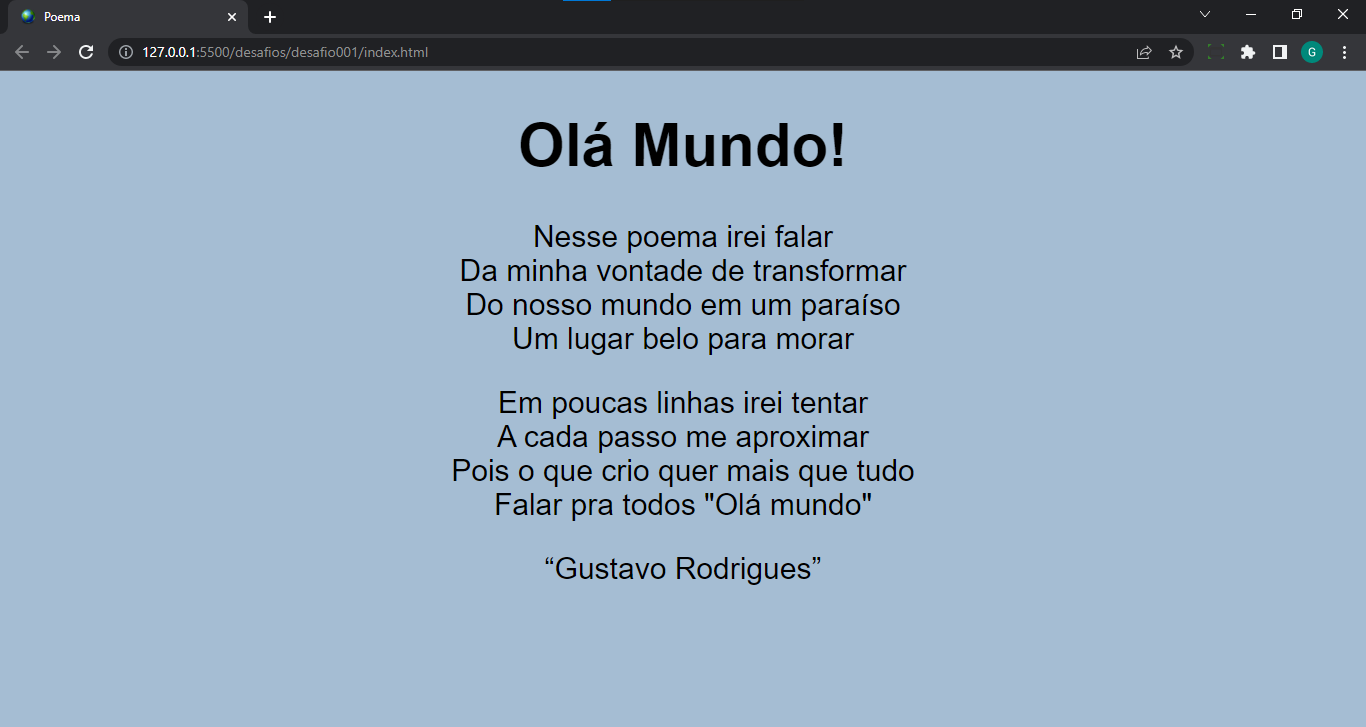
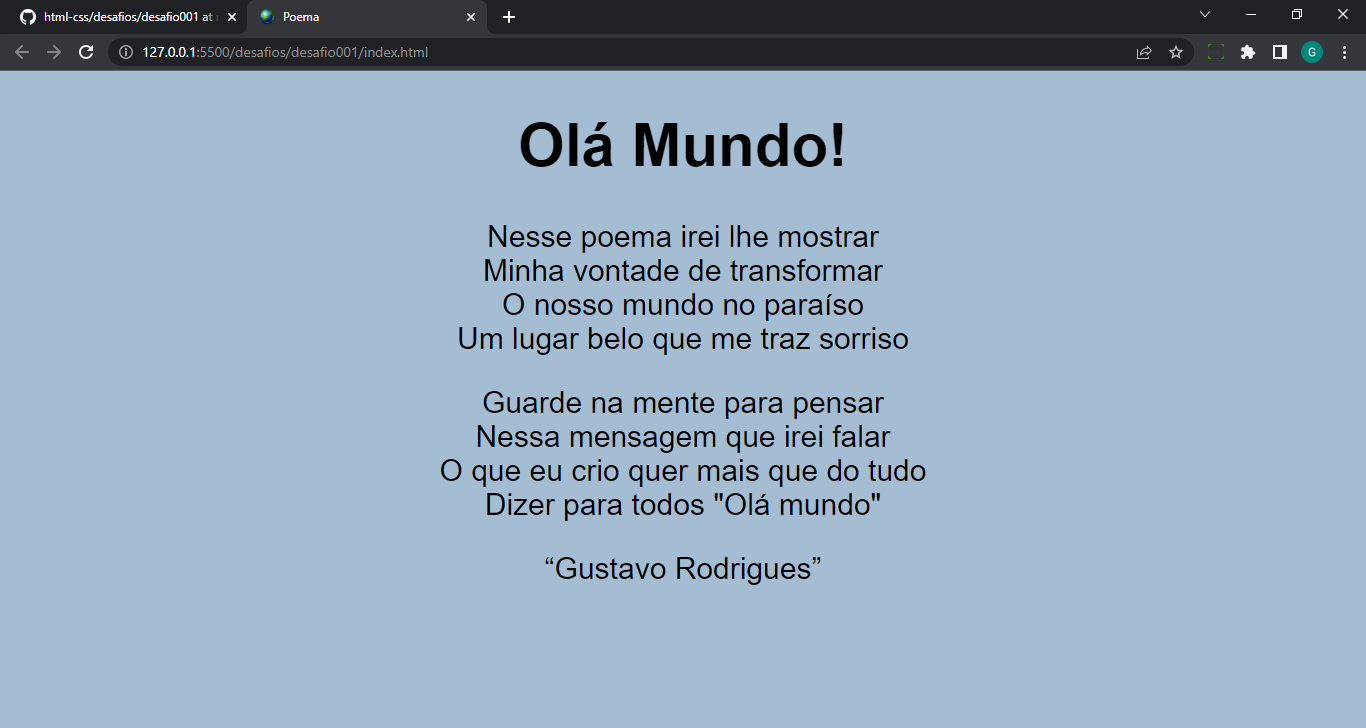
mudei o poema

diff --git a/desafios/desafio001/index.html b/desafios/desafio001/index.html
@@ -27,17 +27,17 @@
     <h1>Olá Mundo!</h1>
 
         <p>
-            Nesse poema irei falar <br>
-            Da minha vontade de transformar <br>
-            Do nosso mundo em um paraíso <br>
-            Um lugar belo para morar <br>
+            Nesse poema irei lhe mostrar <br>
+            Minha vontade de transformar <br>
+            O nosso mundo no paraíso <br>
+            Um lugar belo que me traz sorriso<br>
         </p> 
 
         <p>
-            Em poucas linhas irei tentar <br>
-            A cada passo me aproximar <br>
-            Pois o que crio quer mais que tudo <br>
-            Falar pra todos "Olá mundo" <br>
+            Guarde na mente para pensar <br>
+            Nessa mensagem que irei falar <br>
+            O que eu crio quer mais que do tudo <br>
+            Dizer para todos "Olá mundo" <br>
         </p> 
     <blockquote><q>Gustavo Rodrigues</q></blockquote>
 </body>
